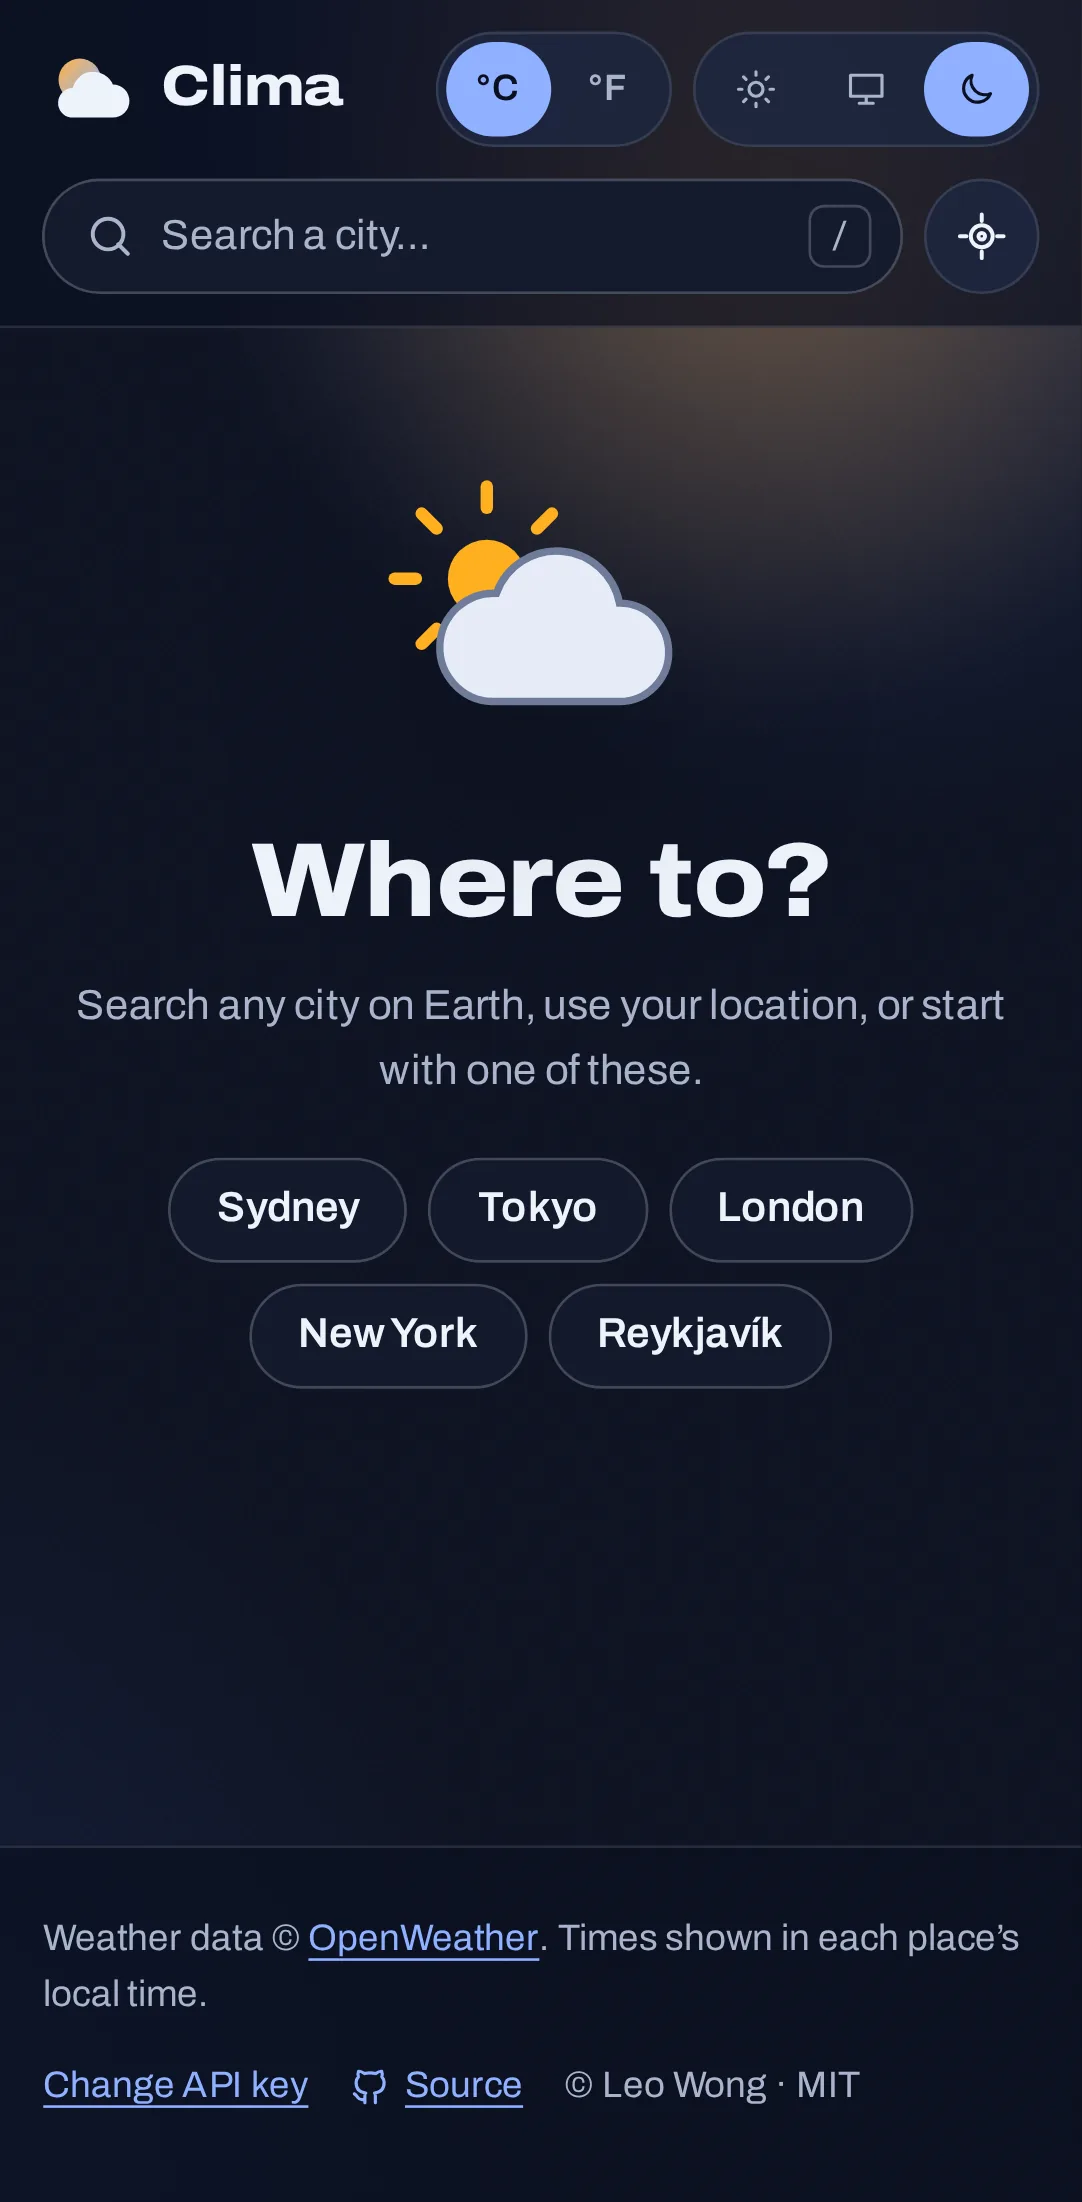
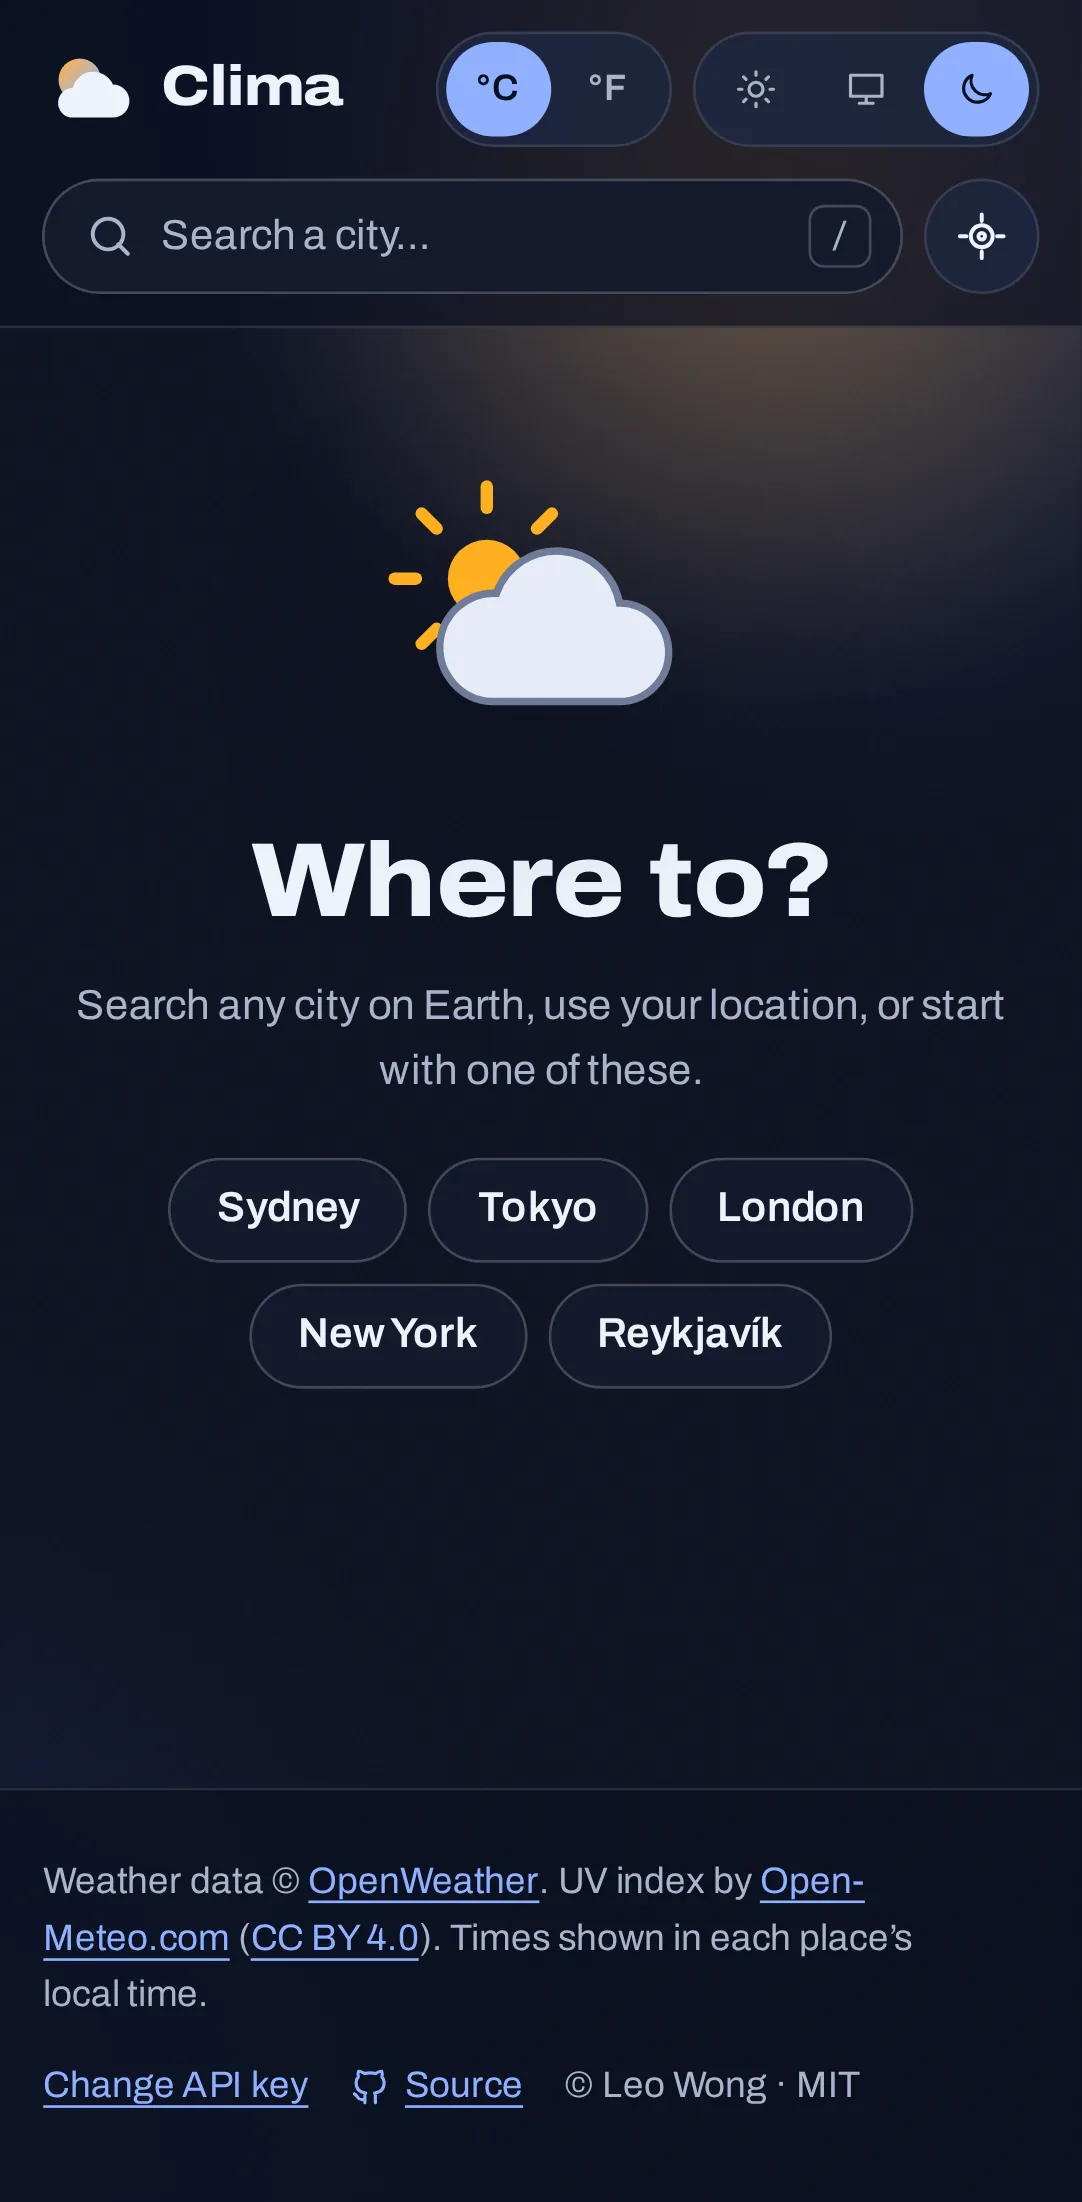
docs: README and screenshots for UV index and sun protection

Changed region(s): [[0.0305, 0.8338, 0.9455, 0.8955]]

diff --git a/README.md b/README.md
@@ -6,7 +6,7 @@
 ![Vite 8](https://img.shields.io/badge/Vite-8-646cff?logo=vite&logoColor=white)
 ![WCAG 2.2 AA](https://img.shields.io/badge/WCAG-2.2%20AA-2fb36b)
 
-A fast, accessible weather dashboard. Search any city and get current conditions, a 24-hour chart, a 5-day forecast, wind, sun, humidity, air quality, visibility and pressure, in a sky that changes with the weather.
+A fast, accessible weather dashboard. Search any city and get current conditions, a 24-hour chart, a 5-day forecast, UV index with sun protection times, wind, sun, humidity, air quality, visibility and pressure, in a sky that changes with the weather.
 
 **Live:** [leoelicos.github.io/clima](https://leoelicos.github.io/clima/)
 
@@ -29,7 +29,8 @@ A fast, accessible weather dashboard. Search any city and get current conditions
 - **Current conditions** in the place's own local time, with feels-like, high/low and a plain-English summary.
 - **24-hour chart**: a hand-built SVG with temperature curve, rain chance bars and a text summary, plus a **data table view**.
 - **5-day forecast** with temperature range bars scaled across the week.
-- **Highlights**: wind compass, sun arc, humidity, air quality (AQI), visibility and pressure.
+- **UV index and sun protection**: current UV on a WHO-coloured scale, today's peak, UV in the hourly chart, table and 5-day forecast, and SunSmart-style protection times ("Sun protection recommended from 7:44 am to 6:21 pm") interpolated from hourly data, with the five Ss (slip, slop, slap, seek, slide). When today's window has passed it shows tomorrow's.
+- **Highlights**: wind compass, sun arc, UV, humidity, air quality (AQI), visibility and pressure.
 - **Animated weather icons** and a sky that shifts with the weather and time of day. All motion respects `prefers-reduced-motion`.
 - **Solid states**: skeleton loading, friendly errors with retry (bad key, rate limit, offline, server), empty state with suggestions.
 - 10-minute in-memory cache and request cancellation, so switching cities is instant and never shows stale data.
@@ -39,6 +40,7 @@ A fast, accessible weather dashboard. Search any city and get current conditions
 - Landmarks (`header`, `search`, `nav`, `main`, `footer`), a skip link and a logical heading outline.
 - Every control is reachable and usable with a keyboard; focus is always visible (3px high-contrast ring) and never hidden behind the sticky header (2.4.11).
 - Colour contrast meets AA in both themes, checked by axe against real rendering in Playwright.
+- UV levels are always given as text ("9, very high"); the WHO colours are only a supplement.
 - Charts and icons have text alternatives: the hourly chart has a written summary and a data table; values are announced with units ("24 degrees Celsius", "from the northeast").
 - Search results, loading and errors use live regions (4.1.3 Status Messages).
 - Targets are at least 24×24px (2.5.8); native radio groups for toggles; works in Windows forced-colours mode.
@@ -107,7 +109,9 @@ Import the repo at [vercel.com/new](https://vercel.com/new) (framework preset: V
 
 ## Data
 
-Weather data from [OpenWeather](https://openweathermap.org/): Geocoding, Current Weather, 5 day / 3 hour Forecast and Air Pollution APIs, all on the free plan. (Version 1 used the One Call 2.5 API, which OpenWeather has retired.)
+- Weather data from [OpenWeather](https://openweathermap.org/): Geocoding, Current Weather, 5 day / 3 hour Forecast and Air Pollution APIs, all on the free plan. (Version 1 used the One Call 2.5 API, which OpenWeather has retired.)
+- UV index from the [Open-Meteo](https://open-meteo.com/) Forecast API (`current`, `hourly` and `daily` UV, no key, CORS-enabled), data licensed [CC BY 4.0](https://creativecommons.org/licenses/by/4.0/) and credited in the footer. Open-Meteo's free tier is for non-commercial use (no ads or subscriptions); if Clima ever goes commercial, use a paid Open-Meteo plan or switch to [currentuvindex.com](https://currentuvindex.com/api) (CC BY 4.0, commercial use allowed). If Open-Meteo is unreachable, the UV features simply hide.
+- Sun protection guidance follows [SunSmart](https://www.sunsmart.com.au/uv-sun-protection/uv/uv-index) (Cancer Council Australia): protection is recommended when the UV index is 3 or above.
 
 ## Credits
 
